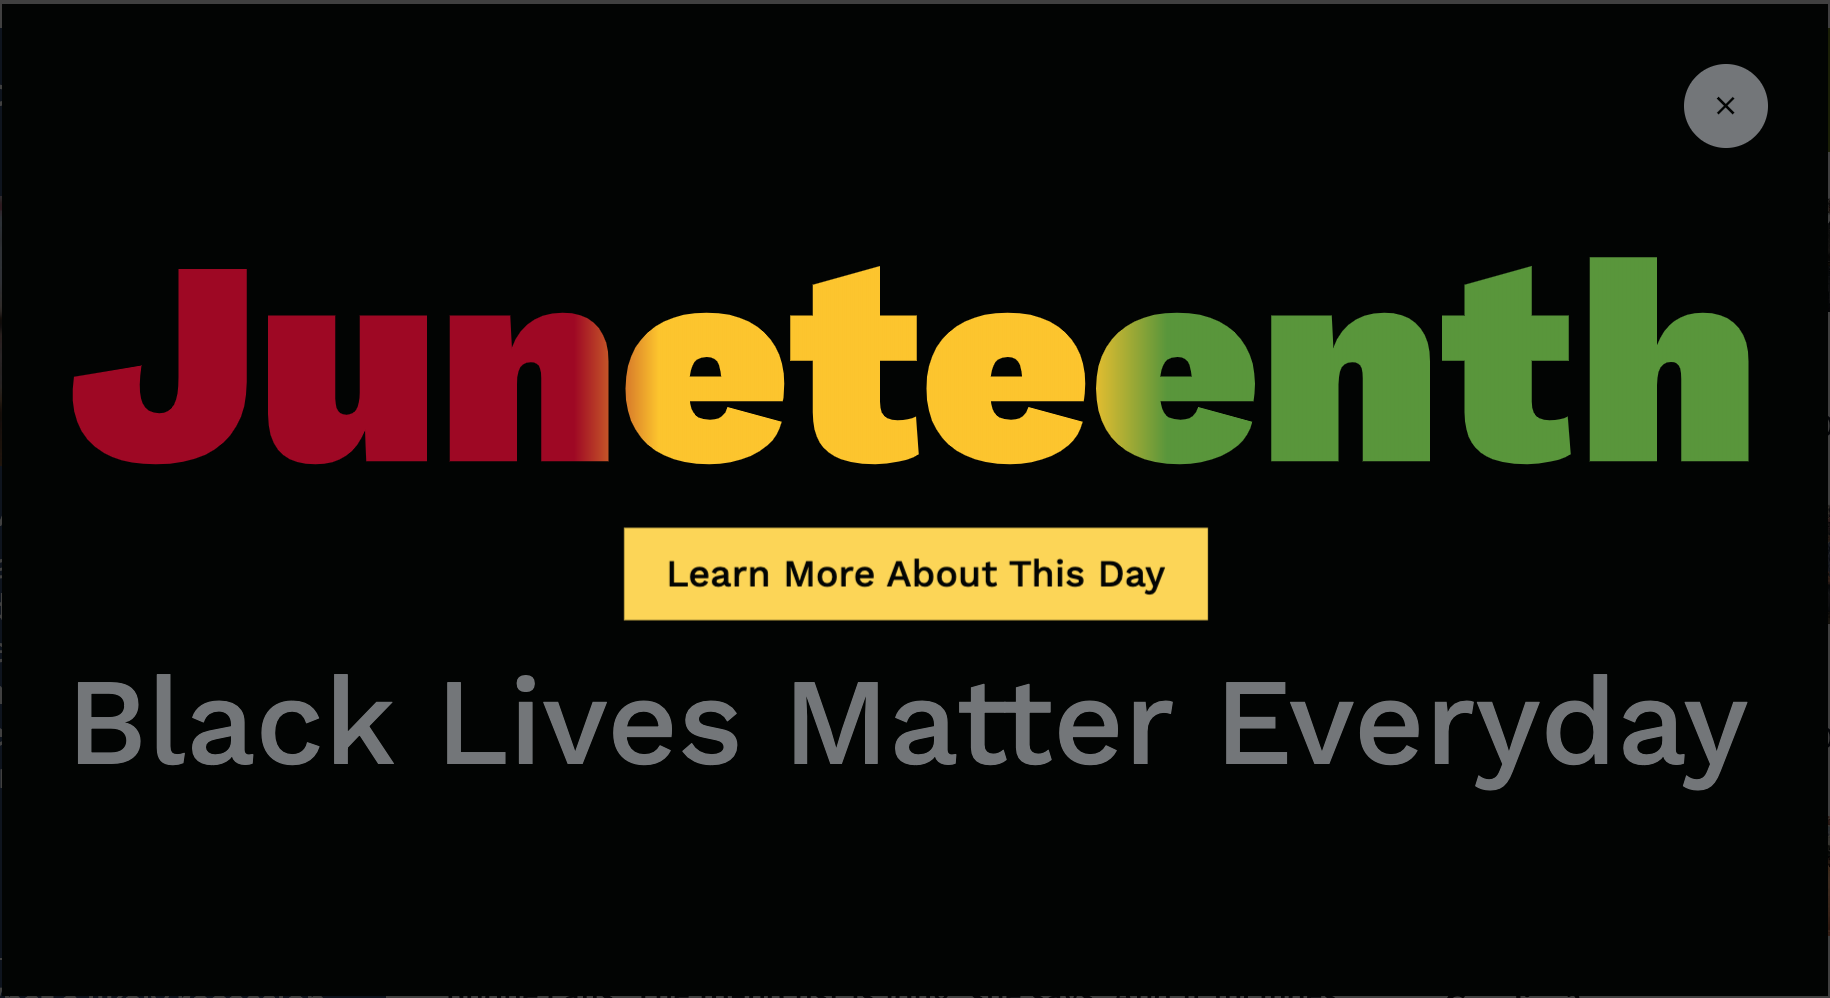
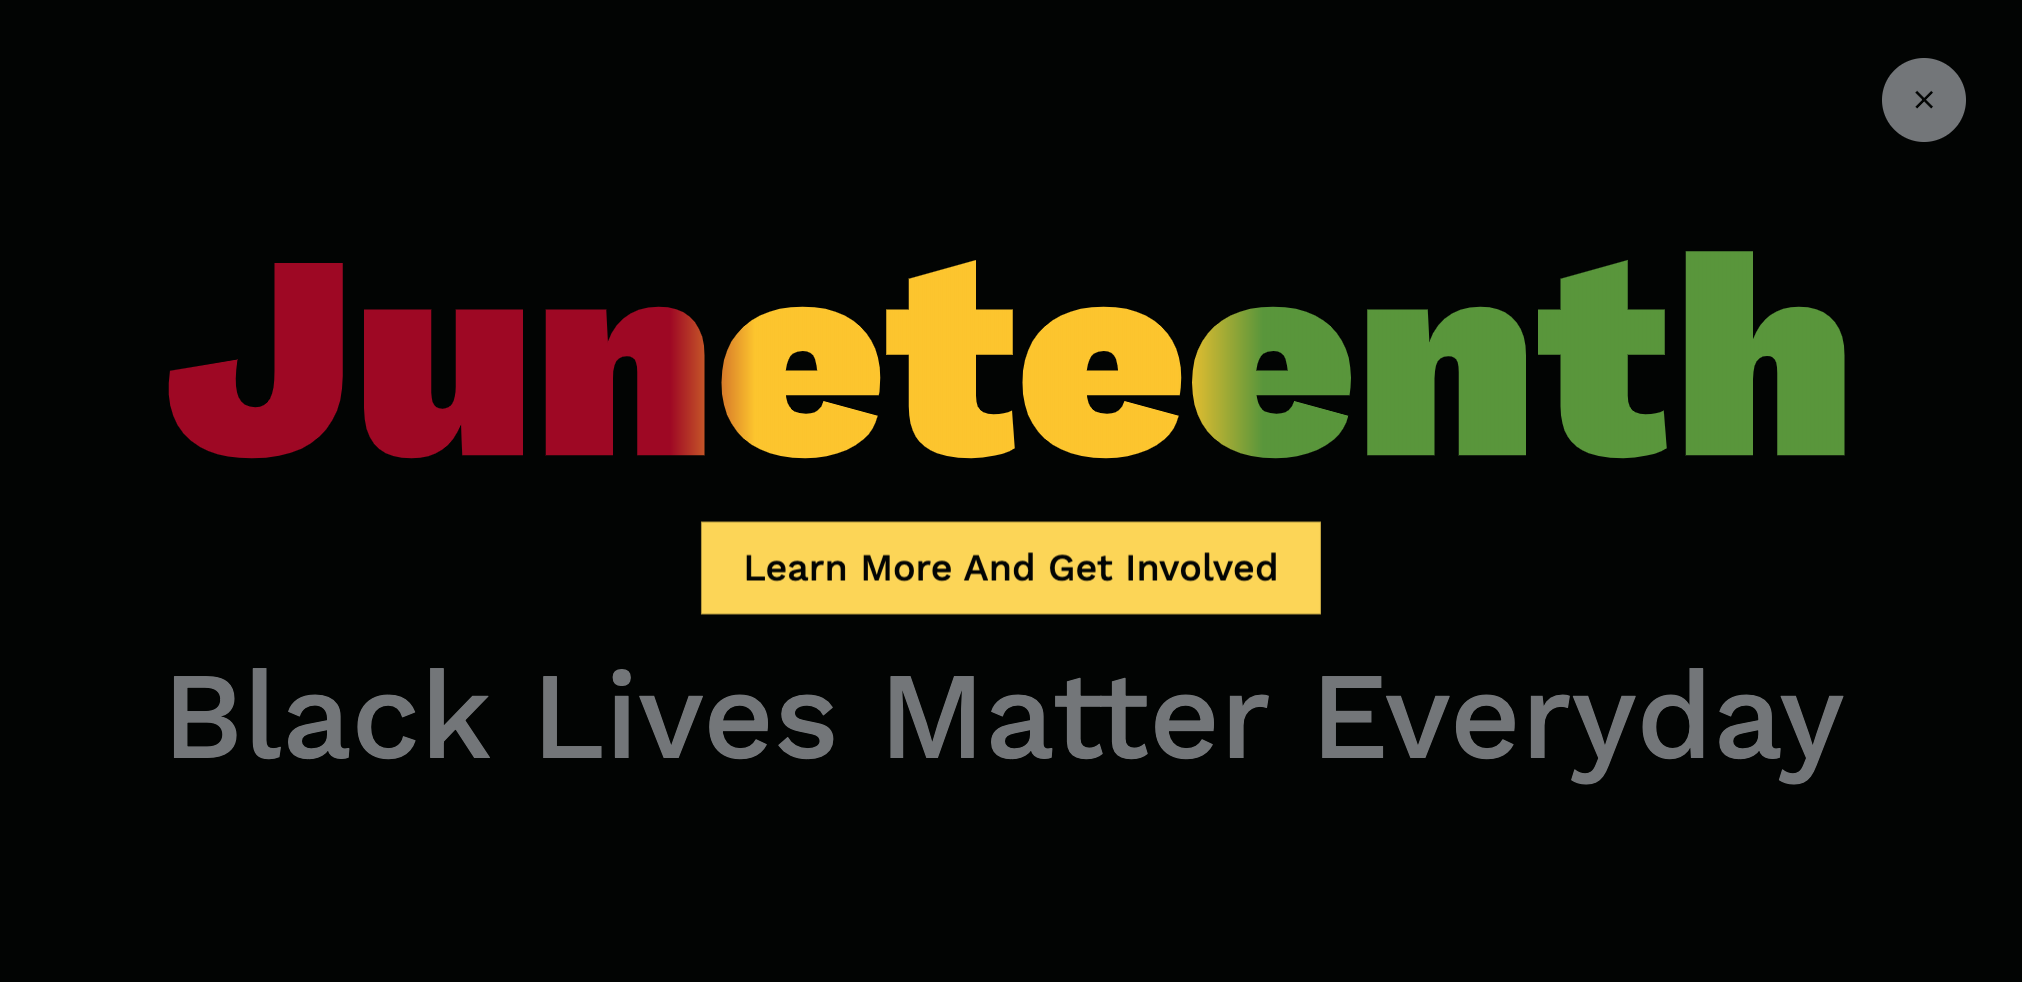
Update date and screenshot

diff --git a/juneteenth.php b/juneteenth.php
@@ -71,7 +71,7 @@ function run_juneteenth() {
 	 * Only run if current time (based on setting's configured Timezone)
 	 * is during Juneteenth.
 	 */
-	$juneteenth = '617'; //TODO: change to 619
+	$juneteenth = '619';
 	$current_time = current_time('nj', false);
 
 	if ($juneteenth == $current_time) {

diff --git a/README.md b/README.md
@@ -17,4 +17,4 @@ Spread Juneteenth awareness with this modal that automatically appears on your w
 
 ## Screenshots
 
-![image](https://user-images.githubusercontent.com/928176/84958929-60ad2b80-b0cc-11ea-85a5-6f84b1d69098.png)
+![image](https://user-images.githubusercontent.com/928176/85047430-d0202b00-b15f-11ea-96c7-6ecff27b6683.png)
